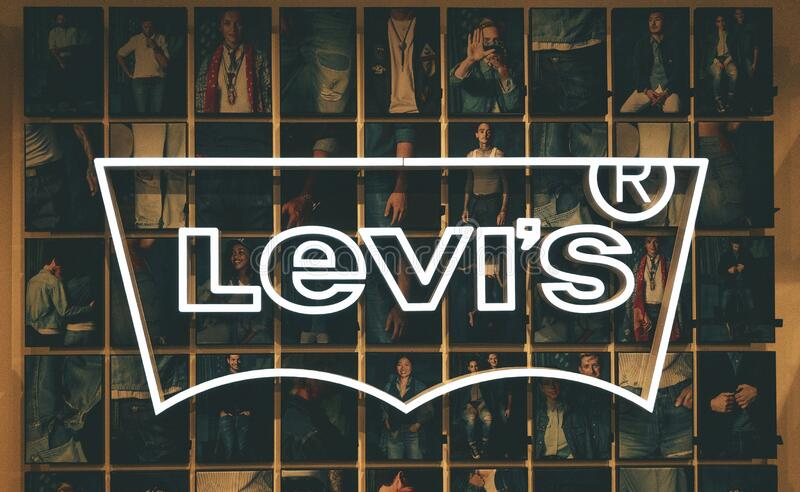
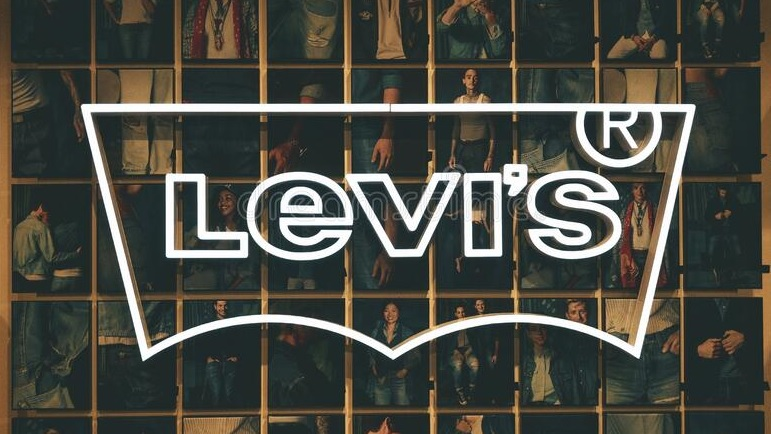
hintergrund angepasst

diff --git a/index.html b/index.html
@@ -41,23 +41,18 @@
         padding-left: 50px;
         padding-right: 50px;
       }
-      .leviswp {
-        width: 98%;
-      }
-         
-      .image-container {
-        background-color: rgb(0, 0, 0);
-      }
+                   
+           
       .navbar {
         display: flex;
         justify-content: space-between;
         align-items: center;
       }
       a {
-        font-size: 25px;
-        color: orange;
+        font-size: 45px;
+        color: rgb(255, 255, 255);
         text-decoration: none;
-        margin-left: 20px;
+        margin-left: 50px;
         font-weight: 500;
       }
 
@@ -78,7 +73,7 @@
       .maps-container {
         display: flex;
         justify-content: space-between;
-        margin-top: 16px;
+        margin-top: 800px;
       }
 
       .maps-size {
@@ -87,14 +82,17 @@
         height: 200px;
       }
       body {
-        background-color: black;
+        background-image: url("leviswp.jpg");
+        height: 90%;
+        background-repeat: no-repeat;
+        background-size: cover;
       }
       #clock {
         padding-left: 1500px;
         top: 50%;
         left: 50%;
         font-size: 4em;
-        color: orange;
+        color: rgb(255, 255, 255);
         letter-spacing: 3px;
             }
     </style>
@@ -123,7 +121,7 @@
 
     <!--div "Container" in dem Fall ein Rahmen, muss aber mit CSS also "CLASS" sichtbar gemacht werden-->
     <div class="image-container">
-      <img class="leviswp" src="leviswp.jpg" />
+    
 
       <div class="maps-container">
         <iframe
